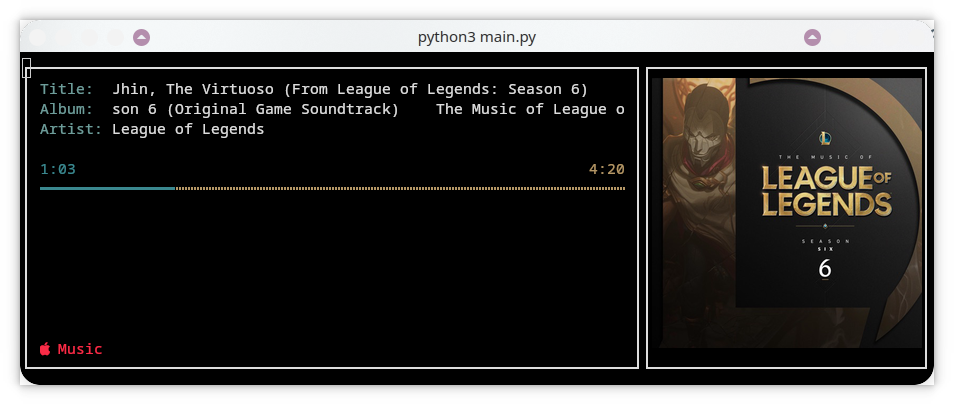
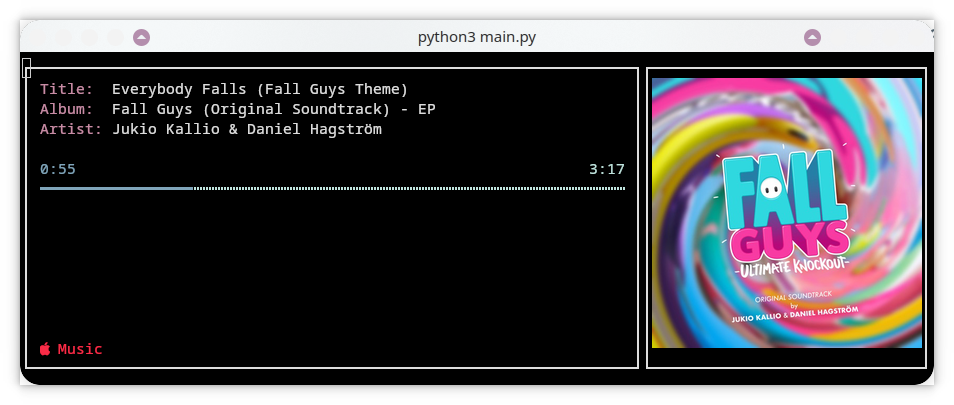
update examples

Changed region(s): [[0.0304, 0.1778, 0.9727, 0.8593], [0.0304, 0.2074, 0.6384, 0.3556]]

diff --git a/README.md b/README.md
@@ -2,6 +2,9 @@
 
 ~~Control~~ Monitor your music from the terminal, with curses!
 ![Example view](example.png)
+![Example view](example2.png)
+![Example view](example3.png)
+
 ## Requirements
 - installed `playerctl`
 - Python 3 (any version compatible with `curses`)
@@ -20,6 +23,7 @@ python3 main.py
 - Album art!
 - moving progress bar
 - colors taken from the album art
+- colors of active position (current time) and progress bar blend seamlessly to colors of total time
 ## Roadmap
 - buttons for playback control
 - resizing?
